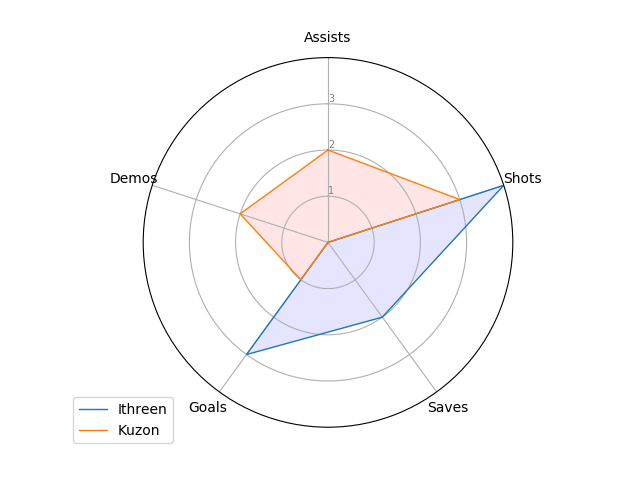
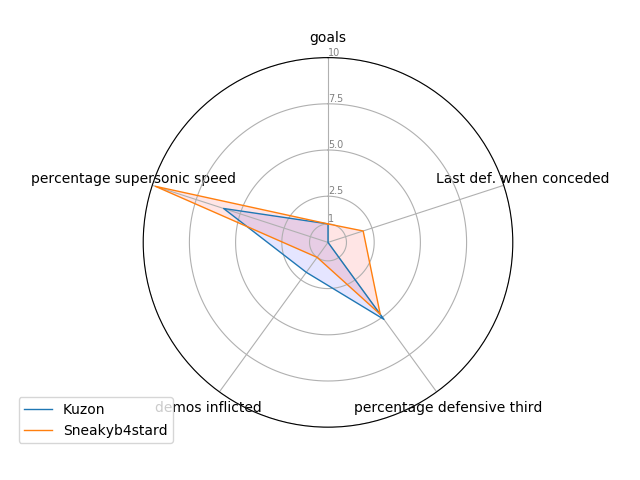
fixed start plot

diff --git a/templates/index_starplot.html b/templates/index_starplot.html
@@ -2,19 +2,53 @@
 <html>
 <head lang="en">
     <meta charset="UTF-8">
-    <title>My First Dashboard</title>
+    <title>Starplot</title>
 </head>
 <body>
 <div class="container">
     <div class="row">
         <div class="col-md-6">
-         
-          
-            <div class="chart" id="bargraph">
 
- 
-                <img src={{url}} alt="Chart" height="auto" width="100%">
+          <form action="{{url_for('update_star_plot')}}" method="post">
+              <select name="Offensive">
+                <option value="goals">Goals</option>
+                <option value="shots">Shots</option>
+                <option value="count stolen big pads">Stolen big pads</option>
+              </select>
+              <br><br>
+              <select name="Defensive">
+                <option value="saves">Saves</option>
+                <option value="time most back">Time most back</option>
+                <option value="goals conceded while last defender">Last defender conceded</option>
+              </select>
+              <br><br>
+              <select name="Positioning">
+                <option value="percentage defensive third">% Defensive third</option>
+                <option value="percentage neutral third">% Neutral third</option>
+                <option value="percentage offensive third">% Offensive third</option>
+              </select>
+              <br><br>
+
+              <select name="Misc">
+                <option value="demos inflicted">Demos inflicted</option>
+                <option value="demos taken">Demos taken</option>
+                <option value="percentage high in air">%High in air</option>
+              </select>
+              <br><br>
+
+              <select name="Speed">
+                <option value="percentage supersonic speed">% Supersonic speed</option>
+                <option value="avg speed">Average speed</option>
+              </select>
+              <br><br>
+              <input type="submit" value="Update">
+            </form>
+
+
+            <div class="chart" id="bargraph">
+                <img src={{url}} alt="Chart" height="auto" width="30%">
             </div>
+
         </div>
     </div>
 </div>

diff --git a/app.py b/app.py
@@ -1,3 +1,5 @@
+from __future__ import print_function # In python 2.7
+import sys
 import io
 import random
 import pandas as pd
@@ -5,82 +7,33 @@ import numpy as np
 import json
 import plotly
 import plotly.graph_objs as go
+import logging
+import sys
+import os
 
 
-from flask import Flask, render_template, Response
+from flask import Flask, render_template, Response, redirect, url_for
 from flask import request
-app = Flask(__name__)
-
-
-#@app.route('/')
-#def index():
-
 from matplotlib import pyplot as plt
 from math import pi
+import math
+
 
 app = Flask(__name__)
-df_csv = pd.read_csv('./matches_csv/testmatch0.csv', sep=';') # creating a sample dataframe
-df_csv['assists']
-df = pd.DataFrame({
-'group': ['A', 'B', 'C', 'D', 'E', 'F'],
-'Assists': df_csv['assists'],
-'Shots': df_csv['shots'],
-'Saves': df_csv['saves'],
-'Goals': df_csv['goals'],
-'Demos': df_csv['demos inflicted']
-})
+app.config['SEND_FILE_MAX_AGE_DEFAULT'] = 0
 
 @app.route('/star')
 def indexstar():
-    # ------- PART 1: Create background
-
-    # number of variable
-    categories=list(df)[1:]
-    N = len(categories)
-
-    # What will be the angle of each axis in the plot? (we divide the plot / number of variable)
-    angles = [n / float(N) * 2 * pi for n in range(N)]
-    angles += angles[:1]
-
-    # Initialise the spider plot
-    ax = plt.subplot(111, polar=True)
-
-    # If you want the first axis to be on top:
-    ax.set_theta_offset(pi / 2)
-    ax.set_theta_direction(-1)
-
-    # Draw one axe per variable + add labels labels yet
-    plt.xticks(angles[:-1], categories)
-
-    # Draw ylabels
-    ax.set_rlabel_position(0)
-    plt.yticks([1,2,3], ["1","2","3"], color="grey", size=7)
-    plt.ylim(0,4)
-
-
-    # ------- PART 2: Add plots
-
-    # Plot each individual = each line of the data
-    # I don't do a loop, because plotting more than 3 groups makes the chart unreadable
-
-    # Ind1
-    values=df.loc[0].drop('group').values.flatten().tolist()    #make a list of all values
-    values += values[:1]    #add first value at the end
-    ax.plot(angles, values, linewidth=1, linestyle='solid', label=df_csv['player name'].loc[0])
-    ax.fill(angles, values, 'b', alpha=0.1)
-
-    # Ind2
-    values=df.loc[1].drop('group').values.flatten().tolist()
-    values += values[:1]
-    ax.plot(angles, values, linewidth=1, linestyle='solid', label=df_csv['player name'].loc[1])
-    ax.fill(angles, values, 'r', alpha=0.1)
-
-    # Add legend
-    plt.legend(loc='upper right', bbox_to_anchor=(0.1, 0.1))
-    plt.savefig('static/images/plot.png')
-    plt.clf()
     return render_template('index_starplot.html', url='/static/images/plot.png')
 
+@app.route('/star', methods=["GET","POST"])
+def update_star_plot():
+    if request.method == 'POST':
+        print("HEEEJ", file=sys.stderr)
+        create_star_plot()
+        return redirect(url_for('update_star_plot'))
+
+    return render_template('index_starplot.html', url='/static/images/plot.png')
 
 
 @app.route('/C', methods=["GET", "POST"])
@@ -140,6 +93,105 @@ def create_plot():
     #graphJSON = json.dumps(data, cls=plotly.utils.PlotlyJSONEncoder)
 
     #return graphJSON
+
+def create_star_plot():
+    var1 = request.form.get('Offensive')
+    if var1 is None:
+        var1 = 'shots'
+    var2 = request.form.get('Defensive')
+    if var2 is None:
+        var2 = 'saves'
+    var3 = request.form.get('Positioning')
+    if var3 is None:
+        var3 = 'percentage defensive third'
+    var4 = request.form.get('Misc')
+    if var4 is None:
+        var4 = 'demos inflicted'
+
+    var5 = request.form.get('Speed')
+    if var5 is None:
+        var5 = 'percentage supersonic speed'
+
+    df_csv = pd.read_csv('./matches_csv/testmatch0.csv', sep=';') # creating a sample dataframe
+    df_kuzon = df_csv[df_csv['player name'].str.contains('Kuzon')]
+    df_sneaky = df_csv[df_csv['player name'].str.contains('Sneakyb4stard')]
+    frames = [df_kuzon, df_sneaky]
+    df_csv_new = pd.concat(frames)
+    df_csv_new = df_csv_new.reset_index()
+    if var5 == 'avg speed':
+        df_csv_new[var5] = df_csv_new[var5]/250
+    if var5 == 'percentage supersonic speed':
+        df_csv_new[var5] = df_csv_new[var5]/2
+    if var2 == "goals conceded while last defender":
+        var2name = "Last def. when conceded"
+    else:
+        var2name = var2
+
+    df = pd.DataFrame({
+    'group': ['A', 'B'],
+    var1: df_csv_new[var1],
+    var2name: df_csv_new[var2],
+    var3: df_csv_new[var3]/10,
+    var4: df_csv_new[var4],
+    var5: df_csv_new[var5]
+    })
+    #TAKEN FROM https://python-graph-gallery.com/391-radar-chart-with-several-individuals/
+    #Since matplotlib didnt have one implemented
+    # ------- PART 1: Create background
+    # number of variable
+
+    categories=list(df)[1:]
+    N = len(categories)
+
+    # What will be the angle of each axis in the plot? (we divide the plot / number of variable)
+    angles = [n / float(N) * 2 * pi for n in range(N)]
+    angles += angles[:1]
+
+    # Initialise the spider plot
+    ax = plt.subplot(111, polar=True)
+
+    # If you want the first axis to be on top:
+    ax.set_theta_offset(pi / 2)
+    ax.set_theta_direction(-1)
+
+    # Draw one axe per variable + add labels labels yet
+    plt.xticks(angles[:-1], categories)
+
+    yTickValues = df.max()
+    maxValue = yTickValues.drop(['group'])
+    maxValue = maxValue.max()
+
+    maxValue = math.ceil(maxValue / 2.) * 2
+    print(maxValue, file=sys.stderr)
+
+    # Draw ylabels
+    ax.set_rlabel_position(0)
+    plt.yticks([1,maxValue/4,maxValue/2,3*maxValue/4,maxValue], ["1",maxValue/4,maxValue/2,3*maxValue/4,maxValue], color="grey", size=7)
+    plt.ylim(0,maxValue)
+
+
+    # ------- PART 2: Add plots
+
+    # Plot each individual = each line of the data
+    # I don't do a loop, because plotting more than 3 groups makes the chart unreadable
+
+    # Ind1
+    values=df.loc[0].drop('group').values.flatten().tolist()    #make a list of all values
+    values += values[:1]    #add first value at the end
+    ax.plot(angles, values, linewidth=1, linestyle='solid', label=df_csv_new['player name'].loc[0])
+    ax.fill(angles, values, 'b', alpha=0.1)
+
+    # Ind2
+    values=df.loc[1].drop('group').values.flatten().tolist()
+    values += values[:1]
+    ax.plot(angles, values, linewidth=1, linestyle='solid', label=df_csv_new['player name'].loc[1])
+    ax.fill(angles, values, 'r', alpha=0.1)
+
+    # Add legend
+    plt.legend(loc='upper right', bbox_to_anchor=(0.1, 0.1))
+    plt.savefig('static/images/plot.png')
+    plt.clf()
+
 
 if __name__ == '__main__':
     app.run(debug=True)

diff --git a/uselesscode.py b/uselesscode.py
@@ -12,3 +12,7 @@ def create_figure():
     ys = df['assists']
     axis.plot(xs, ys)
     return fig
+
+
+
+    
